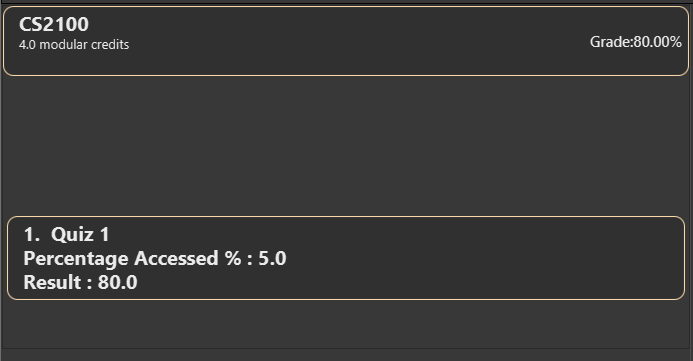
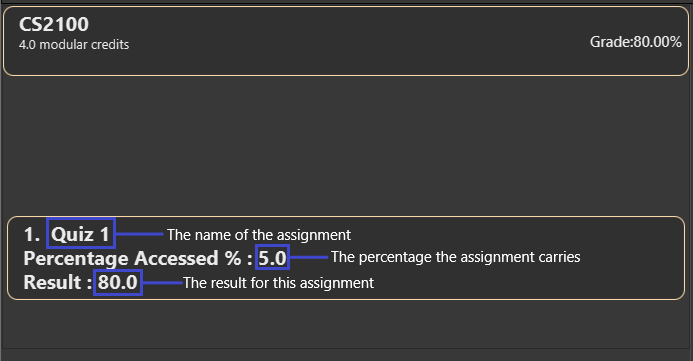
Add annotations to images

Changed region(s): [[0.0606, 0.5789, 0.8485, 0.8227]]

diff --git a/docs/UserGuide.md b/docs/UserGuide.md
@@ -640,7 +640,7 @@ assignments will contain the following fields:
 
 #### Calculating Cumulative Average Point(CAP): `calculatecap`(David)
 
-Calculates your CAP based on completed modules
+Calculates your CAP based on completed modules.
 
  Format: `calculatecap`
 
@@ -649,11 +649,11 @@ Calculates your CAP based on completed modules
 
 #### Calculating target CAP details: `targetcap`(David)
 
-Calculates helpful CAP details based on the target CAP you input
+Calculates helpful CAP details based on the target CAP you input.
 
  Format: `targetcap tc/TARGET_CAP`
 
-  * The target cap refers to the desired CAP input by you
+  * The target cap refers to the desired CAP input by you.
 
   Example:
   * `targetcap tc/4.5` calculates CAP achievement required for planned modules in order to achieve target CAP.
